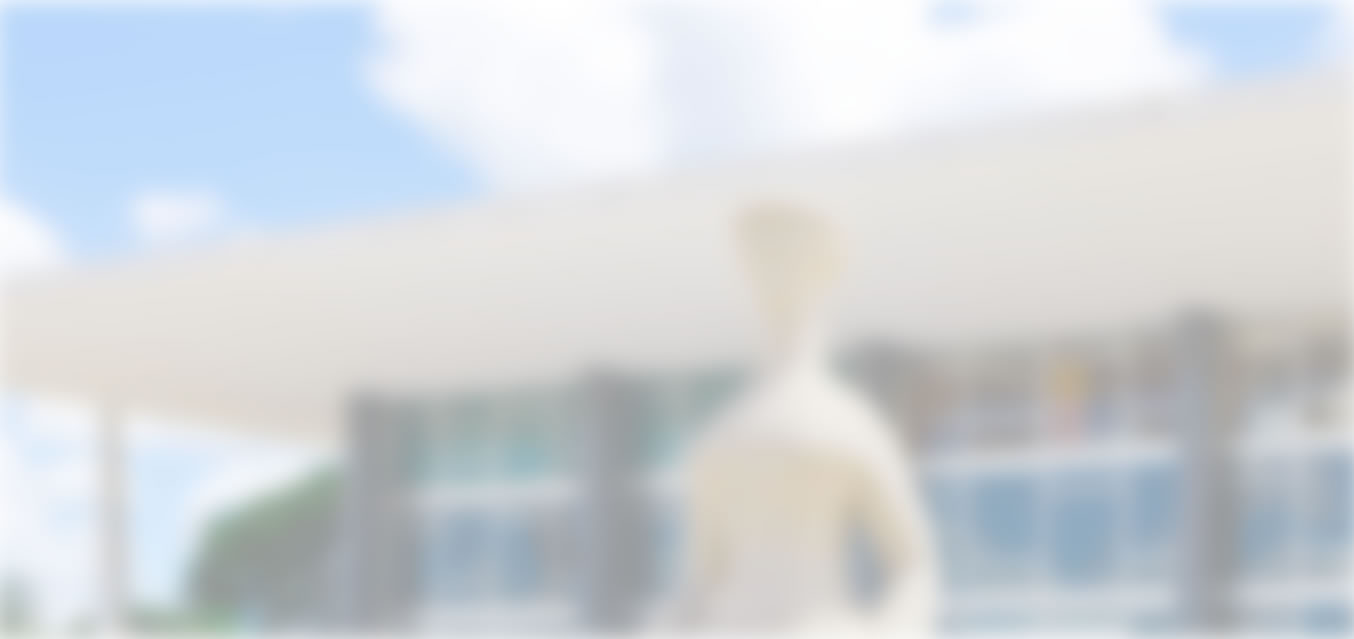
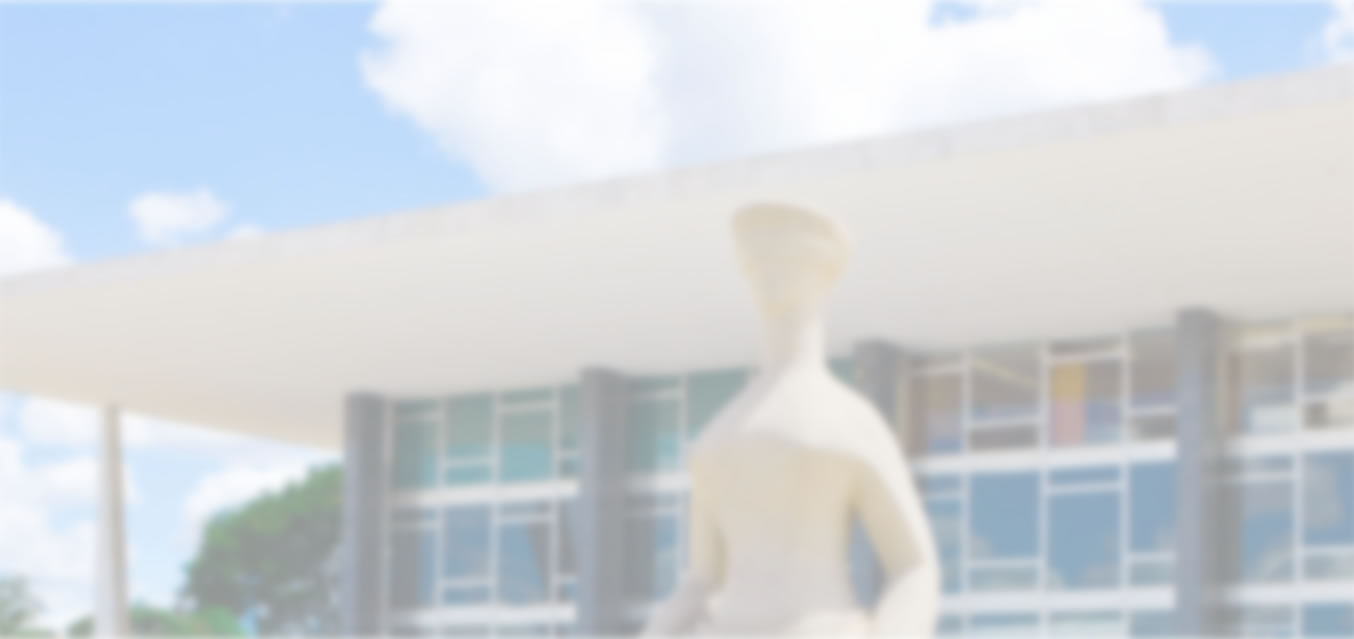
Incluindo mock de cadastro

diff --git a/styleguide/fuse/documentacao/PSDs/customSTF/cadastro.htm b/styleguide/fuse/documentacao/PSDs/customSTF/cadastro.htm
@@ -1,0 +1,12 @@
+<!DOCTYPE html PUBLIC "-//W3C//DTD XHTML 1.0 Transitional//EN"
+"http://www.w3.org/TR/xhtml1/DTD/xhtml1-transitional.dtd">
+<!-- saved from url=(0014)about:internet -->
+<html xmlns="http://www.w3.org/1999/xhtml">
+<head>
+<title>cadastro</title>
+<meta http-equiv="Content-Type" content="text/html; charset=utf-8" />
+<!--Fireworks CS5 Dreamweaver CS5 target.  Created Thu Dec 17 14:36:13 GMT-0200 2015-->
+</head>
+<body bgcolor="#ffffff">
+<img name="cadastro" src="cadastro.png" width="1366" height="639" border="0" id="cadastro" alt="" /></body>
+</html>
